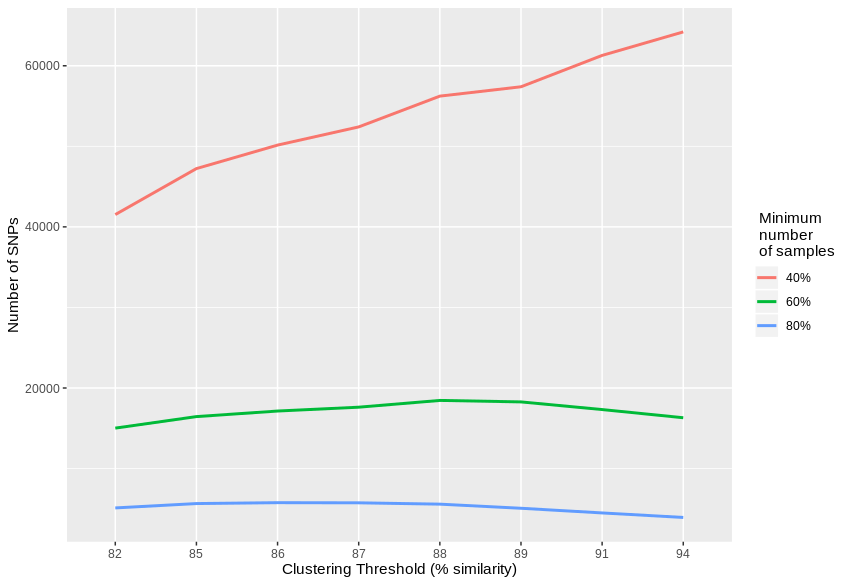
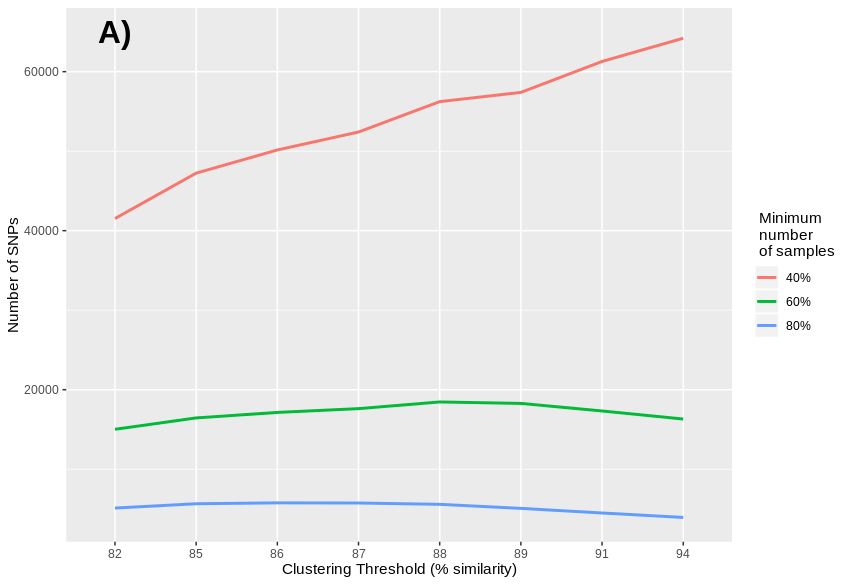
added abstract and discussion

diff --git a/Abstract_and_Discussion.md b/Abstract_and_Discussion.md
@@ -1,0 +1,13 @@
+<p align="center"><font size="5">
+Taxonomic delimitation of Mammillaria haageana (Cactaceae)
+</p>
+
+
+
+<p align="center">
+<img src="out/R_plots/Clust_Tresh_loci.png" width="350">
+<img src="out/R_plots/Clust_Tresh_snp.png" width="350">
+</p>
+<p align="center">
+Figure 1.- Workflow to process GBS dataset
+</p>
